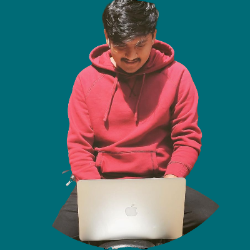
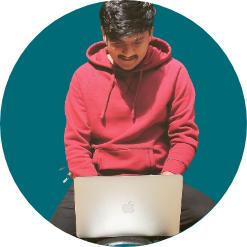
add initial files of mysite

diff --git a/index.html b/index.html
@@ -2,82 +2,66 @@
 <html lang="en" dir="ltr">
   <head>
     <meta charset="utf-8">
-    <title>♻ HeadCracker Personal Site</title>
-  </head>
+    <title>Tech Sucker</title>
+    <link rel="stylesheet" href="css/style.css">
+    <link rel="icon" href="images/favicon.ico">
+    <link rel="preconnect" href="https://fonts.gstatic.com">
+<link href="https://fonts.googleapis.com/css2?family=Merriweather:ital,wght@0,300;0,400;0,700;0,900;1,300;1,400;1,700;1,900&family=Montserrat:ital,wght@0,500;1,500;1,600&family=Sacramento&display=swap" rel="stylesheet">
+<link rel="preconnect" href="https://fonts.gstatic.com">
+<link href="https://fonts.googleapis.com/css2?family=Montserrat:wght@700&display=swap" rel="stylesheet">
+</head>
   <body>
-    <table cellspacing="20">
-  <tr>
-    <td> <img src="images\venu.png" alt="venugopal mannuru pic"></td>
-    <td><h1>VenugopalReddy Mannuru</h1>
-    <p><em>Founder and Ceo of <strong><a href="https://www.appbrewery.co/p/web-development-course-resources/">HeadCracker</a></strong></em></p>
-    <p>I am An Web Developer and Searching for A Good Position in the IT Sector.</p></td>
-</tr>
+   <div class="first-container">
+      <img class="top-cloud" src="images/cloud.png" alt="cloud-image">
 
 
-    </table>
-    <hr>
-    <h3>Books and Teaching</h3>
-    <ul>
-      <li>The Complete Front End Development Bootcamp</li>
-      <li>The Complete Back End Development Bootcamp</li>
-    </ul>
-    <hr>
-    <h3>My Work Experience</h3>
-  <!--  <ul>
-      <p>I Have A 2 yrs of experience in Web development</p>
-      <p>I Have An year of experience as Sports Analyst</p>
-    </ul>-->
-      <table cellspacing="20">
-        <thead>
-          <tr>
-            <th>Dates</th>
-            <th>Work</th>
-          </tr>
-        </thead>
-        <tbody>
-          <tr>
-            <td>2017-2019</td>
-            <td>Web Developer at Wipro Private limited</td>
-          </tr>
-          <tr>
-            <td>2020</td>
-            <td>Web Developer at Infosys</td>
-          </tr>
-        </tbody>
+  <h1>I'm VenuGopal.</h1>
+  <h2>a <span class="pro">pro</span>grammer</h2>
+  <img class="bottom-cloud"src="images/cloud.png" alt="cloud-image">
+  <img src="images/mountain.png" alt="cloud-image">
+    </div>
+  <!--  <div class="middle-container">
 
-      </table>
+    </div>
+    <div class="last-container">
+
+    </div>-->
+    <div class="middle-container">
+      <div class="profile">
+        <img class="venu" src="images/venu.png" alt="VenuGopal-pic">
+        <h2>Hello.</h2>
+        <p class="intro">I am an Web Developer.I'm the Founder of The HeadCracker.I❤Coffee and brew my own beers.</p>
+      </div>
       <hr>
-      <h3>Skills</h3>
-      <table cellspacing="10">
+      <div class="skills">
+        <h2>My Skills.</h2>
+        <div class="skill-row">
+          <img class="computer" src="images/computer.png" alt="skills">
+          <h3>Lorem & Ipsum</h3>
+          <p>I started learning to code when i was 18 years old because I wanted to mke my own video games.Over time,I have gained a wealth of experience designing and developing mobile and web applications.</p>
+        </div>
+        <div class="skill-row">
+          <img class="chillies" src="images/chillies.png" alt="chillies-pic">
+          <h3>Lorem Ipsum Dolor</h3>
+          <p>But my best skill is actually in eating hot wings.I am the undisputed king of hot wing challenges.Ghost peppers and carolina reapers are my favourite snacks.</p>
+        </div>
+      </div>
+      <hr>
+      <div class="contact-me">
+        <h2>Get In Touch</h2>
+        <h3>If you love hot wings as much as i do..</h3>
+        <p class="contact-message">Love hot wings as much as i do?Let's talk about how awesome they are! we can code while we eat hot wings!.</p>
+        <a class="btn" href="mailto:HeadCrackernew@email.com">CONTACT ME</a>
+      </div>
+    </div>
 
-          <tr>
-            <td>
-              <table cellspacing="10">
-                <tr>
-                <td>ios Development</td>
-                <td>⭐⭐⭐⭐⭐</td>
-                  </tr><tr>
-                <td>Web Development</td>
-                <td>⭐⭐⭐⭐⭐</td>
-              </tr>
-            </table>
-          </td>
 
-          <td>
-            <table cellspacing="10">
-              <tr>
-              <td>Photography</td>
-            <td>⭐⭐⭐⭐⭐</td>
-          </tr><tr>
-              <td>Painting</td>
-              <td>⭐⭐⭐⭐⭐</td>
-            </tr>
-            </table>
-          </td>
-</tr>
-      </table>
-<hr>
-  <a href="hobbies.html">My Hobbies</a>
-  <a href="contacts.html">Contact Me</a>
+    <div class="bottom-container">
+      <a class="footer-link" href="https://www.linkedin.com/">LinkedIn</a>
+      <a class="footer-link" href="https://twitter.com/">Twitter</a>
+      <a class="footer-link" href="https://www.appbrewery.co/">Website</a>
+      <p>© 2020 VenuGopal @Headcracker.</p>
+    </div>
+
   </body>
 </html>

diff --git a/css/style.css b/css/style.css
@@ -1,0 +1,149 @@
+body{
+color:#40515e;
+  margin:0 ;
+  text-align: center;
+  font-family:'Merriweather', serif;
+
+
+}
+
+h1{
+  color: #66BFBF;
+  font-size: 5.62rem;
+font-family: 'Sacramento', cursive;
+margin-top: 0;
+}
+h2{
+  color: #66BFBF;
+  font-family:'Montserrat', sans-serif;
+  font-size: 2.5rem;
+  font-weight:normal;
+  padding-bottom: 50px;
+
+
+}
+h3{
+  color: #11999e;
+  font-family: 'Montserrat', sans-serif;
+}
+
+p{
+  line-height: 2em;
+}
+
+.first-container {
+  background-color: #eaf6f6;
+  margin:0;
+  position: relative;
+  padding:100px;
+
+
+}
+.middle-container{
+margin: 100px 0;
+}
+.bottom-container{
+background-color: #66bfbf;
+padding:50px 0 20px;
+
+}
+.pro{
+  text-decoration: underline;
+}
+.intro{
+  width: 30%;
+  margin: auto;
+}
+.top-cloud{
+  position: absolute;
+  right:300px;
+  top:40px;
+
+}
+.bottom-cloud{
+  position:absolute;
+  left: 300px;
+  bottom: 250px;
+
+
+}
+.footer-link{
+  color:#11999e;
+}
+.skill-row{
+  width: 50%;
+  line-height: 2em;
+  margin:100px auto 100px auto;
+  text-align: left;
+
+}
+.computer{
+  width:25%;
+  float: left;
+  margin-right:20px;
+}
+
+
+.chillies{
+  width:25%;
+  float:right;
+  margin-left: 20px;
+}
+.venu{
+  width: 15%;
+  margin-top: 20px;
+  margin-left: auto;
+  margin-right: auto;
+}
+hr{
+  border: dotted #eaf6f6 6px;
+  border-bottom: none;
+  width:4%;
+  margin: 100px auto 100px auto;
+}
+.contact-message{
+  width: 40%;
+  margin: 40px auto 60px;
+}
+.btn {
+  background: #30e3cb;
+  background-image: -webkit-linear-gradient(top, #30e3cb, #2bc4ad);
+  background-image: -moz-linear-gradient(top, #30e3cb, #2bc4ad);
+  background-image: -ms-linear-gradient(top, #30e3cb, #2bc4ad);
+  background-image: -o-linear-gradient(top, #30e3cb, #2bc4ad);
+  background-image: linear-gradient(to bottom, #30e3cb, #2bc4ad);
+  -webkit-border-radius: 8;
+  -moz-border-radius: 8;
+  border-radius: 8px;
+  font-family: 'Montserrat', sans-serif;
+  color: #ffffff;
+  font-size: 20px;
+  padding: 10px 20px 10px 20px;
+  text-decoration: none;
+
+}
+
+.btn:hover {
+  background: #3cb0fd;
+  background-image: -webkit-linear-gradient(top, #3cb0fd, #3498db);
+  background-image: -moz-linear-gradient(top, #3cb0fd, #3498db);
+  background-image: -ms-linear-gradient(top, #3cb0fd, #3498db);
+  background-image: -o-linear-gradient(top, #3cb0fd, #3498db);
+  background-image: linear-gradient(to bottom, #3cb0fd, #3498db);
+  text-decoration: none;
+}
+a{
+  color: #11999e;
+  font-family: 'Montserrat', sans-serif;
+  margin:10px 20px 10px 20px;
+  text-decoration: none;
+
+}
+a:hover{
+  color: #eaf6f6;
+
+}
+.copyright{
+  color:#eaf6f6;
+  font-size:07.5rem;
+}
